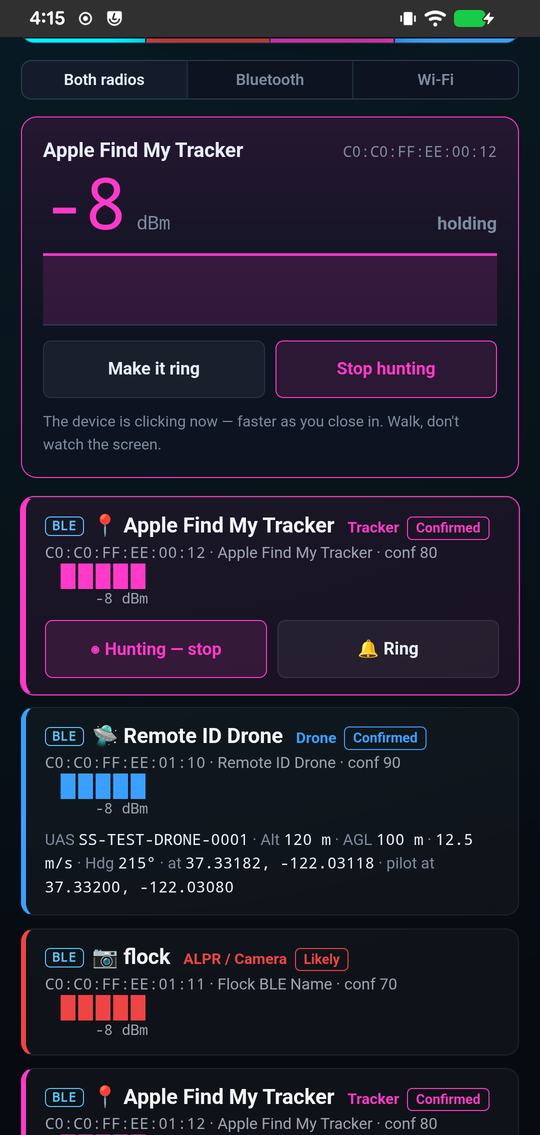
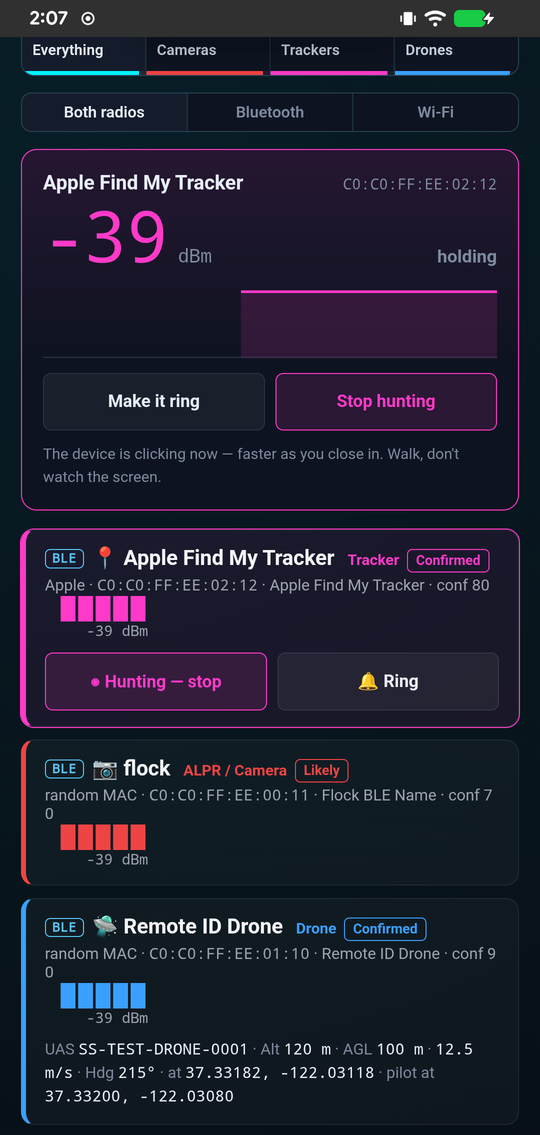
Release 0.2.0: refreshed screenshots and docs
New scope and foxhunt screenshots from the two-board bench (emitter on the
spare board), showing the new header, stats strip and two-button toolbar.
README covers the tab-driven alerts, LED modes and offline vendor names;
the full doc's serial section gains led, uptime, beep_mask and CMD:HOST.

Claude-Session: https://claude.ai/code/session_01QeULQde3kW9gUjC49HAtHQ

diff --git a/docs/README-full.md b/docs/README-full.md
@@ -209,13 +209,20 @@ The same JSON commands the app sends over BLE also work over USB serial, one
 per line, plus a few raw ones:
 
 ```
-CMD:CFG            name, address mode, hunt target, filter, receive-only and
-                   per-radio scan state, alert count
+CMD:CFG            name, address mode, hunt target, filter, receive-only,
+                   per-radio scan state, beep mask, buzzer, LED mode,
+                   alert count, uptime (seconds)
 CMD:SIGS:RESET     restore the built-in signature rules
 CMD:RXONLY:ON|OFF  enter / leave receive-only
 CMD:BLE_SCAN:ON|OFF    pause / resume one radio; each replies with a fresh CMD:CFG
 CMD:WIFI_SCAN:ON|OFF
+CMD:HOST           app keepalive on the cable (every 2 s); the first one chirps
+CMD:HOST:BYE       app is closing the port; chirps
 ```
+
+JSON settings include `{"beep_mask":N}` (one bit per alert category, 0x1F =
+all) and `{"led":0..3}` (lights off / one LED / dim / full). Both survive a
+power cycle.
 
 A paused radio is reported as `ble_scan` / `wifi_scan` in `CMD:CFG`, and the
 flag is set by these commands only — ringing a tracker pauses the BLE scan for

diff --git a/README.md b/README.md
@@ -35,6 +35,12 @@ Flock beacon and an AirTag signature.)*
 - **Mutes by category.** Every AirTag in traffic tripping the tracker pattern is
   the detector working correctly and still not worth listening to. Mute that one
   word; the rest keep sounding, and the app keeps showing what the buzzer skipped.
+  Picking the Cameras, Trackers or Drones tab does the same in one tap.
+- **Lights, if you want them.** Each category has its own LED animation, and the
+  bar can be off, one LED, dim or full, so it does not light up a dark car.
+- **Names what it hears.** Vendor names come from offline IEEE and Bluetooth SIG
+  tables (no MAC ever leaves the phone), and Wi-Fi rows say access point or
+  client.
 - **Foxhunts.** Point it at one MAC and walk the signal down by ear, or make a
   Find My tracker ring so you can hear where it is hidden.
 - **Decodes drone Remote ID in full** (ASTM F3411 / OpenDroneID) over BLE,

diff --git a/CHANGELOG.md b/CHANGELOG.md
@@ -4,6 +4,8 @@ All notable changes to SignalSweep are recorded here.
 
 ## [Unreleased]
 
+## [0.2.0] — 2026-09-11 — Lights, a cleaner top, and tabs that choose what alerts
+
 ### Changed: a band tab picks what alerts, and what asks to be pinned
 
 Picking **Cameras**, **Trackers** or **Drones** now makes the device beep and
